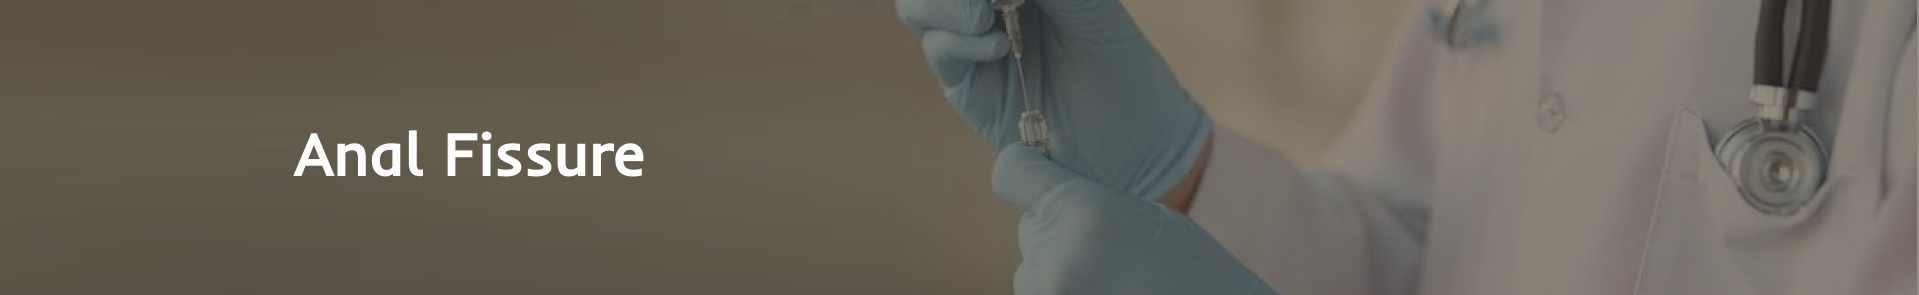
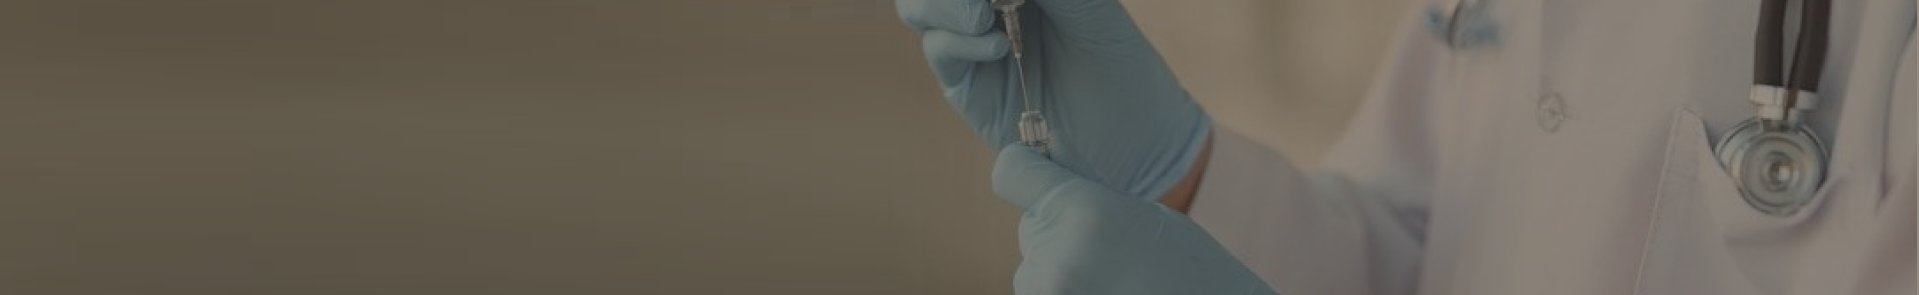
analfissurechanges_aboutusresponsive

Changed region(s): [[0.1537, 0.4271, 0.3382, 0.6102]]

diff --git a/src/Components/Services/ServicesCategories/AnalFissure.jsx b/src/Components/Services/ServicesCategories/AnalFissure.jsx
@@ -9,9 +9,13 @@ export default function AnalFissure() {
 
   return (
     <>
-    <div className="analBackground ">
-
-    </div>
+      <div className="analBackground ">
+        <div className="pt-4">
+          <p className="d-flex align-items-center justify-content-center text-white pt-5 fs-1 pt-5 fw-medium">
+            Anal Fissure
+          </p>
+        </div>
+      </div>
       <div className="container ">
         <div className="m-auto text-center">
           <iframe
@@ -30,76 +34,48 @@ export default function AnalFissure() {
             }}
           ></iframe>
         </div>
-        <h1 className="mt-3">AnalFissure</h1>
-        <p>
+        <h1 className="mt-3 titlecolor">AnalFissure</h1>
+        <article className='pb-3'>
           An anal fissure is a small tear in the skin of the lower wall of the
           rectum or a cut in the tissue lining the anus, and it causes pain
           during the process of passing stool. It is considered a common
           disease, but it does not lead to more serious diseases. It appears in
           different people at different ages, and anal fissures may appear with
           hemorrhoids.
-        </p>
-        <p className="fw-semibold">
+        </article>
+        <p className="fw-bold titlecolor">
           There are several symptoms of anal fissures
         </p>
-        <ul>
+        <ul className='pb-3'>
           <li>Acute pain</li>
           <li>Itchiness</li>
           <li>A stinging or burning feeling during the excretory process</li>
           <li>Yellow secretions</li>
         </ul>
-        <p className="fw-semibold">There are several causes of anal fissures</p>
-        <p>
+        <p className="fw-bold titlecolor">There are several causes of anal fissures</p>
+        <article>
           An anal fissure occurs as a result of a wound (injury) in the area of
           the anus, and this occurs in several ways:
-        </p>
-        <ul>
+        </article>
+        <ul className='pb-3'>
           <li>
             Large stools, which lead to tightening and expansion of the anus
           </li>
           <li>Constipation and straining</li>
           <li>Frequent cases of diarrhea</li>
         </ul>
-        <p className="fw-semibold">Anal fissure treatment:</p>
-        <p>
+        <p className="fw-bold titlecolor">Anal fissure treatment:</p>
+        <article className='pb-5'>
           At least 50 percent of fissures heal on their own and can be treated
           with home remedies, including using a special medicated cream, using
           stool softeners, avoiding constipation, or sitz baths (soaking the
           area in plain warm water for 10-20 minutes, several times per day).
           Fissures that do not respond to treatment at home should be examined
           by a doctor to determine the reason for not healing.
-        </p>
+        </article>
       </div>
 
-      <div className="video-container w-100 pt-5 d-flex justify-content-center">
-        {!isPlaying ? (
-          <img
-            src="/assets/4.png"
-            //   alt="Video Thumbnail"
-            style={{
-              cursor: "pointer",
-              width: "1000px",
-              height: "500px",
-              border: "2px solid black",
-              borderRadius: "10px",
-              boxShadow: "0 4px 8px rgba(0, 0, 0, 0.1)",
-            }}
-            onClick={handlePlayVideo}
-          />
-        ) : (
-          <iframe
-            width="1000"
-            height="500"
-            src="https://www.youtube.com/embed/LPM9BoTk4FM?controls=1&rel=0&playsinline=0&modestbranding=0&autoplay=1&enablejsapi=1"
-            allowFullScreen
-            style={{
-              border: "2px solid black",
-              borderRadius: "10px",
-              boxShadow: "0 4px 8px rgba(0, 0, 0, 0.1)",
-            }}
-          ></iframe>
-        )}
-      </div>
+ 
     </>
   );
 }

diff --git a/src/Components/AboutUs/AboutUs.js b/src/Components/AboutUs/AboutUs.js
@@ -141,7 +141,7 @@ function AboutUs() {
       </div>
 
       <div className="container">
-        <div className="d-flex align-items-center">
+        <div className="d-flex align-items-center flex-column flex-md-flex-row">
           <div>
             <h1 className="h3 titlecolor"> Dr.Mohamed Sera</h1>
             <article className="my-3">
